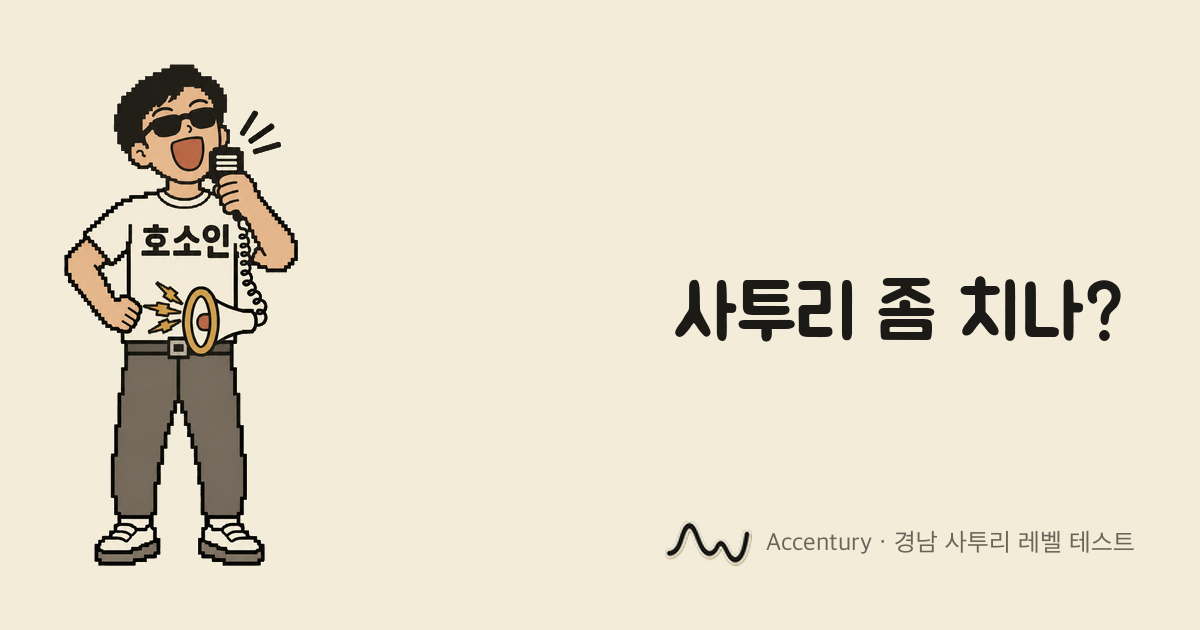
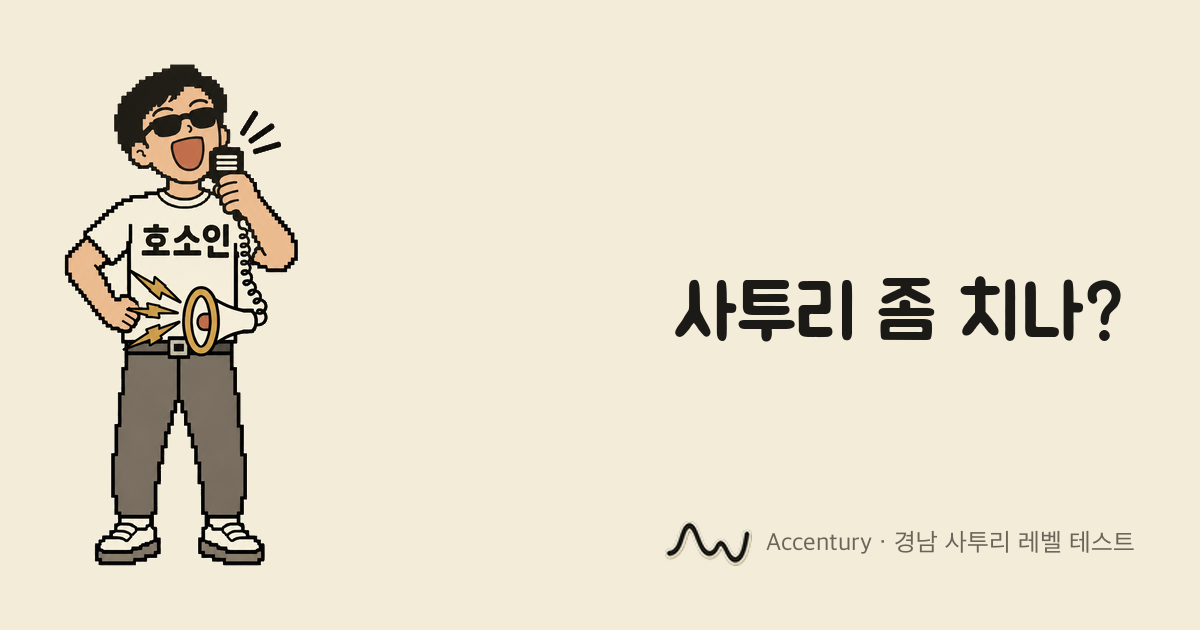
KAN-325 호소인 번개를 뾰족한 지그재그 모양으로 다시 생성 - 결과 화면·공유 카드·가이드·링크 미리보기 재생성

diff --git a/assets/characters/wannabe/prompt.md b/assets/characters/wannabe/prompt.md
@@ -14,3 +14,16 @@ No stamps, no card. No other text.
 Pixel art look: crisp square pixels, no blur or gradient. Only these flat colors: cream #F3ECD9, shade #CFC5AA, ink #1C1A17, warm gray #6B6459, terracotta #A8503A, ochre #C49A4A, tan #DDB892. Skin is tan. Background one flat uniform cream #F3ECD9. No floor or texture. At least 8% empty margin on every side. No logo, signature or watermark.
 
 After saving, print: DONE wannabe.png <width>x<height>.
+
+
+---
+
+Use the built-in `image_gen` tool (default mode, no CLI fallback), editing the attached image. Do not ask questions. Do not write SVG or draw by code. Save `wannabe.png` in the current directory, portrait 1024x1536.
+
+Keep everything exactly: person, face, sunglasses, radio, t-shirt outline, the text "호소인", belt, buckle, megaphone, cord, trousers, shoes, position, scale, colors and pixel size.
+
+Change only the three small marks left of the megaphone bell. Replace them with three clearly recognizable lightning bolts: the classic sharp zigzag bolt shape, each a Z-like jagged stripe with a pointed tip, solid ochre #C49A4A with a clean ink outline, each about 110 px long. They burst out of the bell and fan out to the left: one up-left, one straight left, one down-left. They may overlap the front of the hand on the hip a little; draw them on top of it. They do not touch the text or the buckle.
+
+Crisp square pixels, flat uniform cream background. No new text, logo or watermark.
+
+After saving, print: DONE wannabe.png <width>x<height>.
